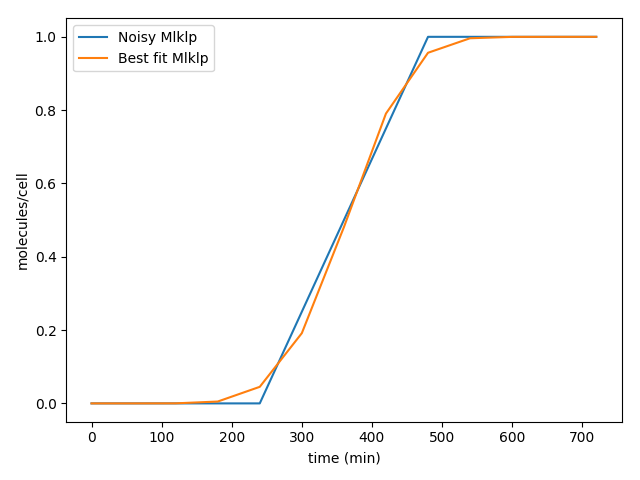
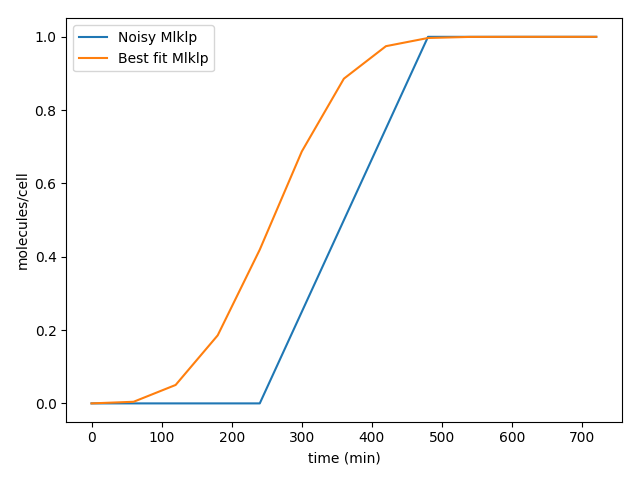
removing tradd ko from calibration

diff --git a/simplepso/examples/necro_pso_kd.py b/simplepso/examples/necro_pso_kd.py
@@ -49,8 +49,8 @@ a20x = np.array([0.,   1.,   2.,   3.,   4.,   5.,   6.,   7.,   8.,   9.,  10.,
 a20y = np.array([0.,0.,0.25, 0.5, 0.75, 1., 1., 1., 1., 1., 1., 1., 1.])
 
 #Tradd data switching at 5
-tdx = np.array([0.,   1.,   2.,   3.,   4.,   5.,   6.,   7.,   8.,   9.,  10., 11.,  12.])
-tdy = np.array([0., 0., 0., 0., 0.25, 0.5, 0.75, 1., 1., 1., 1., 1., 1.])
+# tdx = np.array([0.,   1.,   2.,   3.,   4.,   5.,   6.,   7.,   8.,   9.,  10., 11.,  12.])
+# tdy = np.array([0., 0., 0., 0., 0.25, 0.5, 0.75, 1., 1., 1., 1., 1., 1.])
 
 #Fadd Data switching at 4 hours
 fdx = np.array([0.,   1.,   2.,   3.,   4.,   5.,   6.,   7.,   8.,   9.,  10., 11.,  12.])
@@ -60,7 +60,7 @@ fdy = np.array([0., 0., 0.,0.25, 0.5, 0.75, 1., 1., 1., 1., 1., 1., 1.])
 c8x = np.array([0.,   1.,   2.,   3.,   4.,   5.,   6.,   7.,   8.,   9.,  10., 11.,  12.])
 c8y = np.array([0.,0., 0.25, 0.5, 0.75, 1., 1., 1., 1., 1., 1., 1., 1.])
 
-data = collections.OrderedDict([('wt', wty), ('a20', a20y), ('td', tdy) ,('fd', fdy), ('c8', c8y)])
+data = collections.OrderedDict([('wt', wty), ('a20', a20y),('fd', fdy), ('c8', c8y)])
 # data = collections.OrderedDict()
 # data = {'wt': wty, 'a20': a20y, 'td': tdy, 'fd': fdy, 'c8': c8y}
 # data = collections.OrderedDict(sorted(data.items(), key = lambda t:t[1]))
@@ -95,31 +95,31 @@ def display(parameter_2):
 
     a20_params = np.copy(param_values)
     a20_params[6] = 2700
-    tradd_params = np.copy(param_values)
-    tradd_params[2] = 2700
+    # tradd_params = np.copy(param_values)
+    # tradd_params[2] = 2700
     fadd_params = np.copy(param_values)
     fadd_params[8] = 2424
     c8_params = np.copy(param_values)
     c8_params[11] = 2700
-    ko_pars = [param_values, a20_params, tradd_params, fadd_params, c8_params]
+    ko_pars = [param_values, a20_params, fadd_params, c8_params]
 
     result = solver1.run(param_values=ko_pars)
 
     ysim_array11 = result.observables[0]['MLKLa_obs']
     ysim_array22 = result.observables[1]['MLKLa_obs']
-    ysim_array33 = result.observables[2]['MLKLa_obs']
-    ysim_array44 = result.observables[3]['MLKLa_obs']
-    ysim_array55 = result.observables[4]['MLKLa_obs']
+    # ysim_array33 = result.observables[2]['MLKLa_obs']
+    ysim_array44 = result.observables[2]['MLKLa_obs']
+    ysim_array55 = result.observables[3]['MLKLa_obs']
 
     # ysim_array = extract_records(solver.yobs, obs_names)
     ysim_norm11 = normalize(ysim_array11)
     ysim_norm22 = normalize(ysim_array22)
-    ysim_norm33 = normalize(ysim_array33)
+    # ysim_norm33 = normalize(ysim_array33)
     ysim_norm44 = normalize(ysim_array44)
     ysim_norm55 = normalize(ysim_array55)
 
 
-    ysim = collections.OrderedDict([('wt_sim', ysim_norm11), ('a20_sim', ysim_norm22), ('td_sim', ysim_norm33), ('fd_sim', ysim_norm44), ('c8_sim', ysim_norm55)])
+    ysim = collections.OrderedDict([('wt_sim', ysim_norm11), ('a20_sim', ysim_norm22), ('fd_sim', ysim_norm44), ('c8_sim', ysim_norm55)])
     # ysim = collections.OrderedDict(sorted(ysim.items(), key=lambda t: t[1]))
 
     # solver1.run(param_values)
@@ -133,8 +133,8 @@ def display(parameter_2):
 
     # colors = [cmap(i) for i in np.linspace(0, 1, 5)]
     plt.figure()
-    c = ['red', 'green', 'blue', 'black', 'orange']
-    d = ['red', 'green', 'blue', 'black', 'orange']
+    c = ['red', 'green', 'black', 'orange']
+    d = ['red', 'green', 'black', 'orange']
     # colors = ['red', 'black', 'green', 'purple', 'orange']
     for i,j,k,l, in zip(data, ysim,c, d):
         # plt.plot(t, ysim_norm_3[:, 0], '-^', linewidth=5, label='Ideal P')
@@ -149,7 +149,7 @@ def display(parameter_2):
         plt.ylabel('molecules/cell')
         plt.xlabel('time (min)')
         plt.tight_layout()
-        plt.savefig('necroptosis_kds.png', format='png')
+        plt.savefig('necroptosis_kds_td.png', format='png')
     plt.show()
     plt.close()
 
@@ -162,13 +162,13 @@ def obj_function(params):
     #make a new parameter value set for each of the KD
     a20_params = np.copy(param_values)
     a20_params[6] = 2700
-    tradd_params = np.copy(param_values)
-    tradd_params[2] = 2700
+    # tradd_params = np.copy(param_values)
+    # tradd_params[2] = 2700
     fadd_params = np.copy(param_values)
     fadd_params[8] = 2424
     c8_params = np.copy(param_values)
     c8_params[11] = 2700
-    ko_pars = [param_values, a20_params, tradd_params, fadd_params, c8_params]
+    ko_pars = [param_values, a20_params, fadd_params, c8_params]
 
     result = solver1.run(param_values=ko_pars)
     # solver2.run(param_values=a20_params)
@@ -180,31 +180,31 @@ def obj_function(params):
     # for i in list:
     ysim_array1 = result.observables[0]['MLKLa_obs']
     ysim_array2 = result.observables[1]['MLKLa_obs']
-    ysim_array3 = result.observables[2]['MLKLa_obs']
-    ysim_array4 = result.observables[3]['MLKLa_obs']
-    ysim_array5 = result.observables[4]['MLKLa_obs']
+    # ysim_array3 = result.observables[2]['MLKLa_obs']
+    ysim_array4 = result.observables[2]['MLKLa_obs']
+    ysim_array5 = result.observables[3]['MLKLa_obs']
 
     # ysim_array = extract_records(solver.yobs, obs_names)
     ysim_norm1 = normalize(ysim_array1)
     ysim_norm2 = normalize(ysim_array2)
-    ysim_norm3 = normalize(ysim_array3)
+    # ysim_norm3 = normalize(ysim_array3)
     ysim_norm4 = normalize(ysim_array4)
     ysim_norm5 = normalize(ysim_array5)
 
     # mlkl_var = np.var(y)
     mlkl_wt = np.array([0.05, 0.05, 0.05, 0.05, 0.05, 0.05, 0.2, 0.05, 0.05, 0.05, 0.05, 0.05, 0.05])
     mlkl_a20= np.array([0.05, 0.05, 0.2, 0.05, 0.05, 0.05, 0.05, 0.05, 0.05, 0.05, 0.05, 0.05, 0.05])
-    mlkl_td = np.array([0.05, 0.05, 0.05, 0.05, 0.05, 0.2, 0.05, 0.05, 0.05, 0.05, 0.05, 0.05, 0.05])
+    # mlkl_td = np.array([0.05, 0.05, 0.05, 0.05, 0.05, 0.2, 0.05, 0.05, 0.05, 0.05, 0.05, 0.05, 0.05])
     mlkl_fd = np.array([0.05, 0.05, 0.05, 0.05, 0.2, 0.05, 0.05, 0.05, 0.05, 0.05, 0.05, 0.05, 0.05])
     mlkl_c8 = np.array([0.05, 0.05, 0.05, 0.2, 0.05, 0.05, 0.05, 0.05, 0.05, 0.05, 0.05, 0.05, 0.05])
 
     e1 = np.sum((ydata_norm - ysim_norm1) ** 2 / (mlkl_wt))
     e2 = np.sum((a20y - ysim_norm2) ** 2 / (mlkl_a20))
-    e3 = np.sum((tdy - ysim_norm3) ** 2 / (mlkl_td))
+    # e3 = np.sum((tdy - ysim_norm3) ** 2 / (mlkl_td))
     e4 = np.sum((fdy - ysim_norm4) ** 2 / (mlkl_fd))
     e5 = np.sum((c8y - ysim_norm5) ** 2 / (mlkl_c8))
 
-    error = e1 + e2 + e3 + e4 + e5
+    error = e1 + e2 + e4 + e5
     return error,
 
 

diff --git a/simplepso/examples/new_necro_pso_run.py b/simplepso/examples/new_necro_pso_run.py
@@ -12,15 +12,41 @@ from correct_necro_molecules import model
 from necro_pso_kd import display
 
 
-pars = np.array([-3.90543513, -3.84631005, -2.93469037, -4.97554492, -5.5154541 , -6.08242418,
-                 -2.86229483, -6.80280754, -3.89629432, -4.91123185, -2.8854796 , -0.33340022,
-                 -4.45343191, -2.17690192, -4.50299611, -4.03538748, -4.        , -5.58059923,
-                 -2.81792633,  0.86244067, -2.06393558, -8.55032924, -5.30963198, -0.61639341,
-                 -6.98793546, -1.10961786, -1.75126626, -2.69282528, -2.24177105, -5.90212771,
-                 -4.58622347, -0.40257703, -1.09440659, -2.53660987, -2.62267299, -5.83944408,
-                  0.49786203])
+# pars = np.array([-3.90543513, -3.84631005, -2.93469037, -4.97554492, -5.5154541 , -6.08242418,
+#                  -2.86229483, -6.80280754, -3.89629432, -4.91123185, -2.8854796 , -0.33340022,
+#                  -4.45343191, -2.17690192, -4.50299611, -4.03538748, -4.        , -5.58059923,
+#                  -2.81792633,  0.86244067, -2.06393558, -8.55032924, -5.30963198, -0.61639341,
+#                  -6.98793546, -1.10961786, -1.75126626, -2.69282528, -2.24177105, -5.90212771,
+#                  -4.58622347, -0.40257703, -1.09440659, -2.53660987, -2.62267299, -5.83944408,
+#                   0.49786203])
 
-display(pars)
+params = np.array([-3.00000000e+00,  -2.78247317e+00,  -3.43246928e+00,  -5.05877799e+00,
+                  -3.79144230e+00 , -6.24937055e+00 , -2.48675468e-07 , -5.92891152e+00 ,
+                  -2.68086333e+00 , -3.00000000e+00 , -4.25001012e+00 ,  1.48470006e+00 ,
+                  -3.00301837e+00 , -1.66052896e-03 , -5.10845808e+00 , -1.93227937e+00 ,
+                   1.22585685e+00 , -3.00036514e+00 , -4.86410582e+00 ,  1.54364832e+00 ,
+                   1.73184292e+00 , -7.83377682e+00 , -3.36377726e+00 , -2.52208917e+00 ,
+                  -7.55153153e+00 , -2.21524249e+00 , -1.43141578e+00 , -1.85217468e+00 ,
+                  -5.72547202e-01 , -5.26414183e+00 , -2.51130609e+00 ,  2.00000000e+00 ,
+                  -2.96841789e+00 , -1.57596579e-05 , -2.00187299e+00 , -6.05891821e+00 ,
+                   2.76071207e+00])
+
+# params = np.array([2326, 4800, 9000, 40000, 9000, 9000, 9000, 9000, 8030, 3900, 7226, 9000, 40000, 2400, 10000,
+#                    1.00000000e-03,   1.65016294e-03,  3.69428775e-04,   8.73417743e-06,
+#                    1.61643297e-04,   5.63156952e-07,  9.99999427e-01,   1.17784591e-06,
+#                    2.08514696e-03,   1.00000000e-03,  5.62328222e-05,   3.05281200e+01,
+#                    9.93074042e-04,   9.96183791e-01,  7.79008004e-06,   1.16874733e-02,
+#                    1.68211952e+01,   9.99159587e-04,  1.36739561e-05,   3.49661906e+01,
+#                    5.39315522e+01,   1.46630117e-08,  4.32735715e-04,   3.00545915e-03,
+#                    2.80846147e-08,   6.09196655e-03,  3.70326013e-02,   1.40548210e-02,
+#                    2.67579475e-01,   5.44324861e-06,  3.08101569e-03,   1.00000000e+02,
+#                    1.07542991e-03,   9.99963713e-01,  9.95696568e-03,   8.73135789e-07,
+#                    5.76384204e+02,   1.0])
+
+# pars = 10**params
+# print(pars)
+# quit()
+display(params)
 quit()
 
 # params = np.array([  2326, 4800, 9000, 40000, 9000, 9000, 2070, 9000, 8030, 3900, 7226, 9000, 40000, 2400, 10000,
@@ -119,26 +145,6 @@ model.enable_synth_deg()
 # print(len(pars))
 # # print(pars.shape)
 # quit()
-
-param_values = np.array([p.value for p in model.parameters])
-a20_params = np.copy(param_values)
-a20_params[6] = 2700
-tradd_params = np.copy(param_values)
-tradd_params[2] = 2700
-fadd_params = np.copy(param_values)
-fadd_params[8] = 2424
-c8_params = np.copy(param_values)
-c8_params[11] = 2700
-ko_pars = [param_values, a20_params, tradd_params, fadd_params, c8_params]
-
-# for i in list:
-t = np.linspace(0, 720, 13)
-solver1 = ScipyOdeSimulator(model, tspan=t)
-result = solver1.run(param_values=ko_pars).dataframe
-
-print(result)
-quit()
-
 
 
 tspan = np.linspace(0, 1200, 1201)
